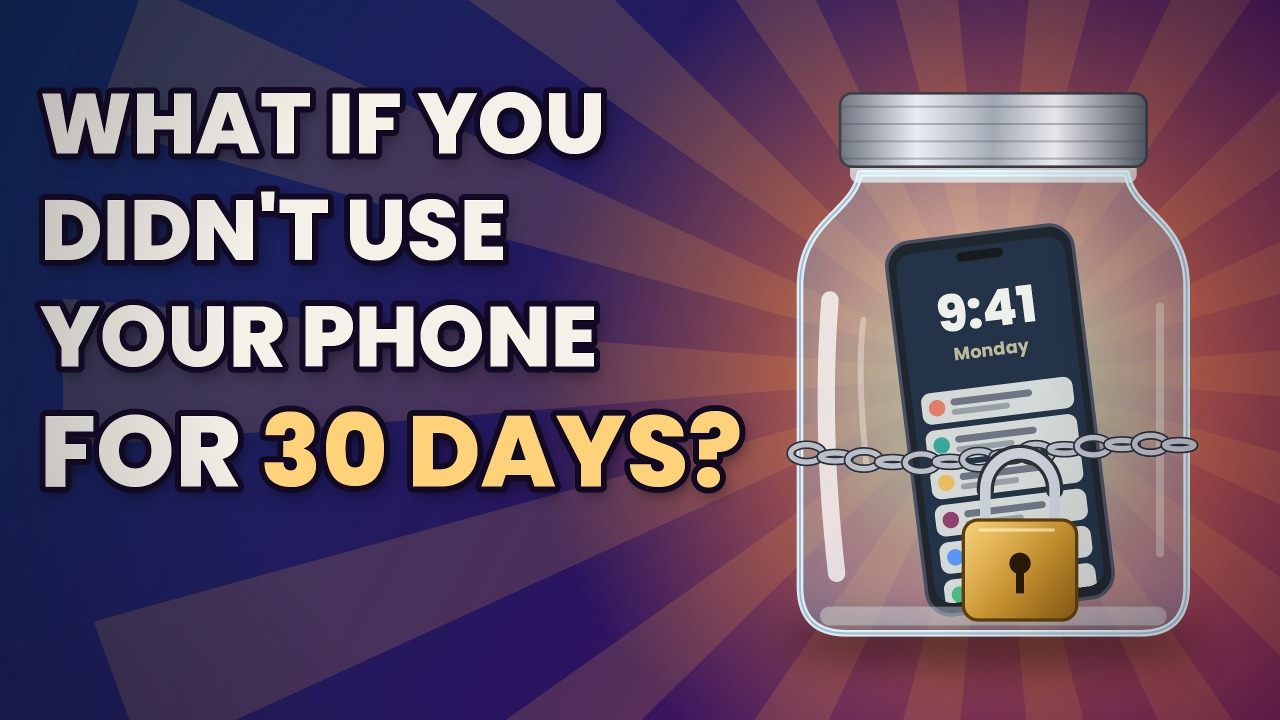
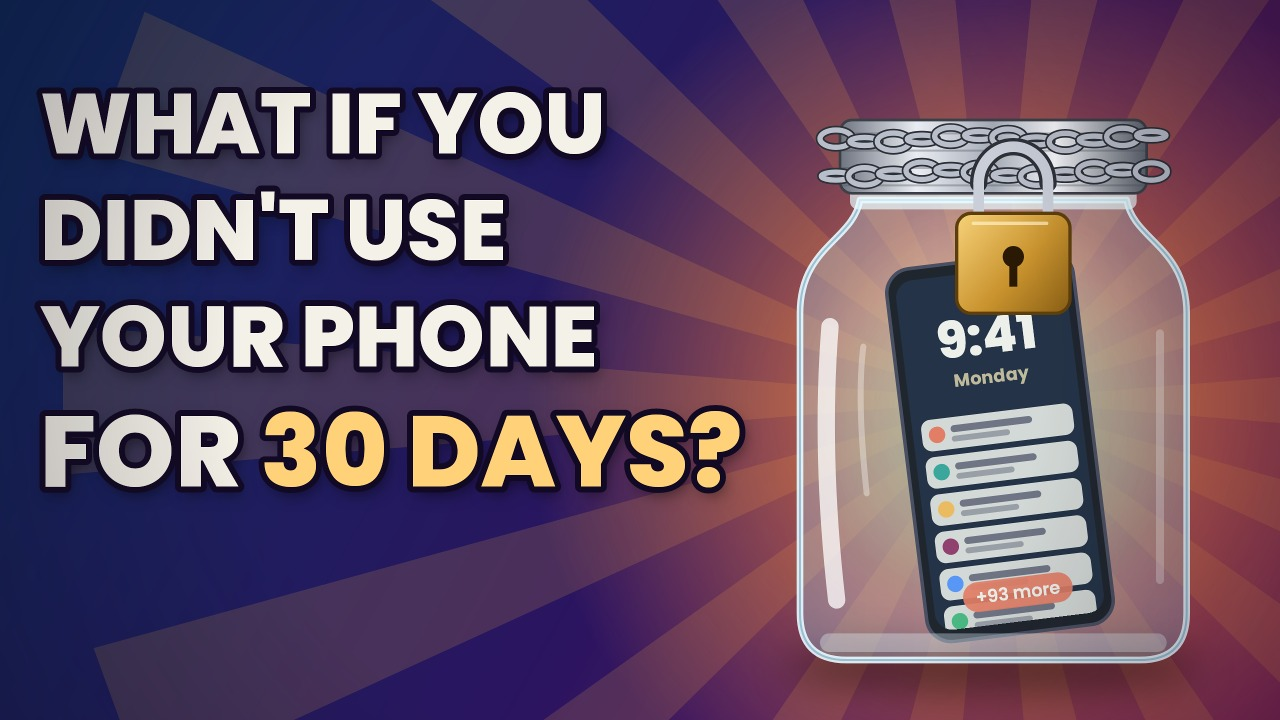
phone-free-30-days: thumbnail v3 (lock on the lid)
Claude-Session: https://claude.ai/code/session_01WCp4uRNZwhg3ZogVtGLHxr

diff --git a/runs/phone-free-30-days/video/thumbs.py b/runs/phone-free-30-days/video/thumbs.py
@@ -89,16 +89,19 @@ def jar_real(c, cx, cy):
 
 
 def chain_lock(c, cx, cy):
-    """A real chain wrapped around the jar's middle, ending in a heavy brass padlock below the jar's front."""
-    y = cy + 120
-    for i in range(14):
-        x = cx - 280 + i * 43
-        yy = y + 14 * math.sin(i * 0.4)
-        r = skia.Rect(x - 24, yy - 13, x + 24, yy + 13) if i % 2 == 0 else skia.Rect(x - 22, yy - 6, x + 22, yy + 6)
-        c.drawOval(r, paint("#2E3138", stroke=13))
-        c.drawOval(r, paint("#B9BFCA", stroke=8))
-    px, py = cx + 40, y + 120
-    # shackle
+    """The lid is what opens, so the lid is what gets locked: a chain wrapped round the screw lid and over its top,
+    and a heavy brass padlock hanging from it in front of the jar's shoulder."""
+    top = cy - 300
+    def link(x, yy, i, ang=0.0):
+        c.save(); c.translate(x, yy); c.rotate(ang)
+        r = skia.Rect(-24, -13, 24, 13) if i % 2 == 0 else skia.Rect(-22, -6, 22, 6)
+        c.drawOval(r, paint("#2E3138", stroke=13)); c.drawOval(r, paint("#B9BFCA", stroke=8))
+        c.restore()
+    # round the lid band
+    for row, yy in enumerate((top - 92, top - 40)):
+        for i in range(12):
+            link(cx - 236 + i * 43, yy + 5 * math.sin(i + row), i + row)
+    px, py = cx + 30, top + 40
     sh = skia.Path(); sh.addArc(skia.Rect(px - 52, py - 120, px + 52, py - 10), 180, 180)
     c.drawPath(sh, paint("#2E3138", stroke=26)); c.drawPath(sh, paint("#C9CED8", stroke=16))
     c.drawLine(px - 52, py - 65, px - 52, py - 10, paint("#C9CED8", stroke=16))
@@ -109,10 +112,9 @@ def chain_lock(c, cx, cy):
     c.drawLine(px - 60, py - 5, px + 50, py - 5, paint("#FFF1C4", 0.7, stroke=5))
     c.drawCircle(px, py + 45, 16, paint("#2A1A05")); c.drawRect(skia.Rect(px - 6, py + 45, px + 6, py + 90), paint("#2A1A05"))
 
-
 def thumb(c):
     lin(c, 0, 0, W, H, ["#0E2A5C", "#2B1460", "#7A1E5A"], [0, 0.55, 1])
-    cx, cy = 1490, 560
+    cx, cy = 1490, 600
     for i in range(18):
         a = i / 18 * 2 * math.pi
         p = skia.Path(); p.moveTo(cx, cy)
